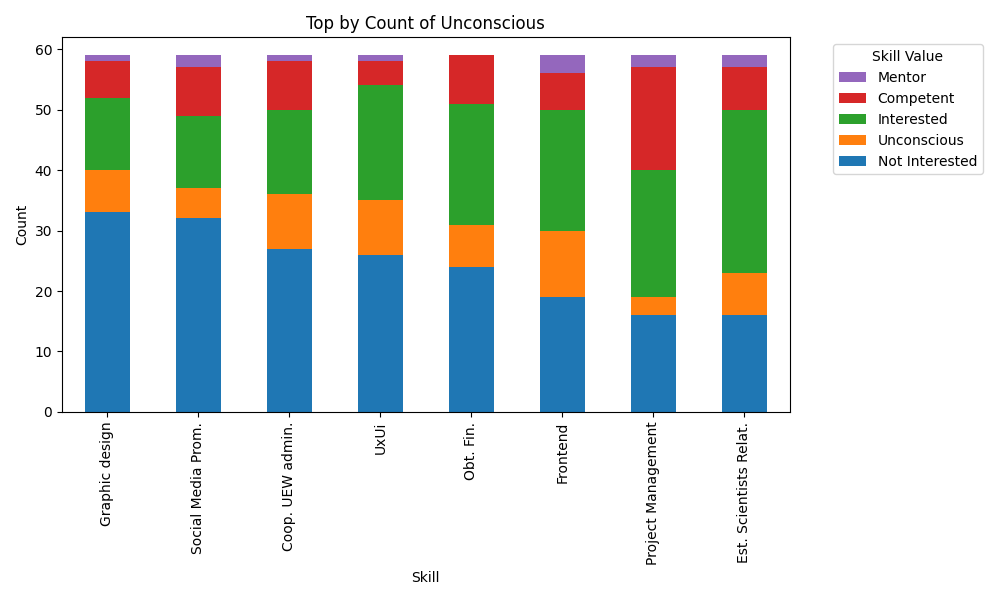
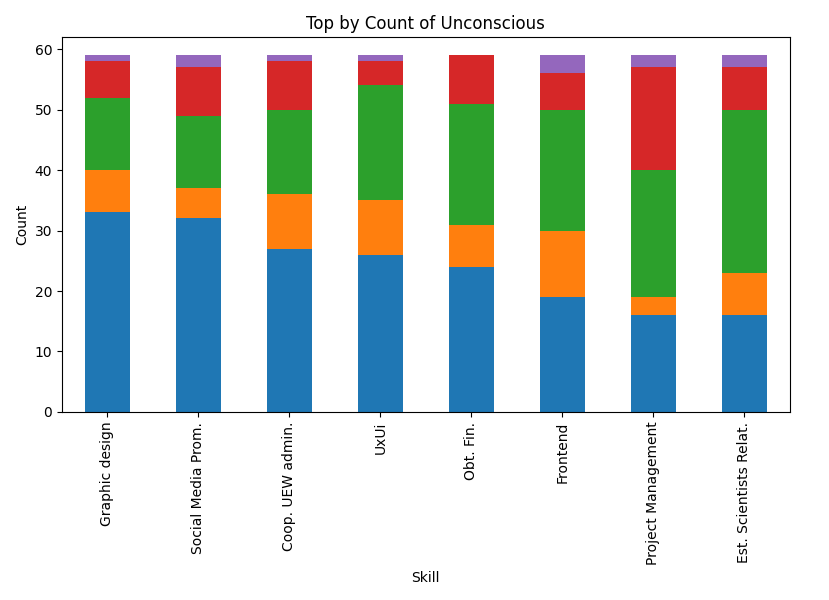
docs:unconscious chart and chart sizes changed

diff --git a/Readme.md b/Readme.md
@@ -123,7 +123,7 @@ This chart displays the count of people who are interested in each skill:
 <br /><br />
 <p align="center">
 <img
-    width="400"
+    width="500"
 		alt="Correlation matrix visualization"
 		src="figures/top_interested_stackedbar_visual.png">
 </p>
@@ -135,7 +135,7 @@ This chart highlights the count of people not interested in each skill:
 <br /><br />
 <p align="center">
 <img
-    width="400"
+    width="500"
 		alt="Correlation matrix visualization"
 		src="figures/top_not_interested_stackedbar_visual.png">
 </p>
@@ -147,7 +147,7 @@ This chart shows the count of people who are unconscious (unaware) of each skill
 <br /><br />
 <p align="center">
 <img
-    width="400"
+    width="500"
 		alt="Correlation matrix visualization"
 		src="figures/top_unconscious_stackedbar_visual.png">
 </p>
@@ -162,7 +162,7 @@ The final result of the conducted analyses is the dendrogram presented below, wh
 
 <p align="center">
 <img
-    width="400"
+    width="500"
 		alt="Correlation matrix visualization"
 		src="figures/dendrogram.png">
 </p>
